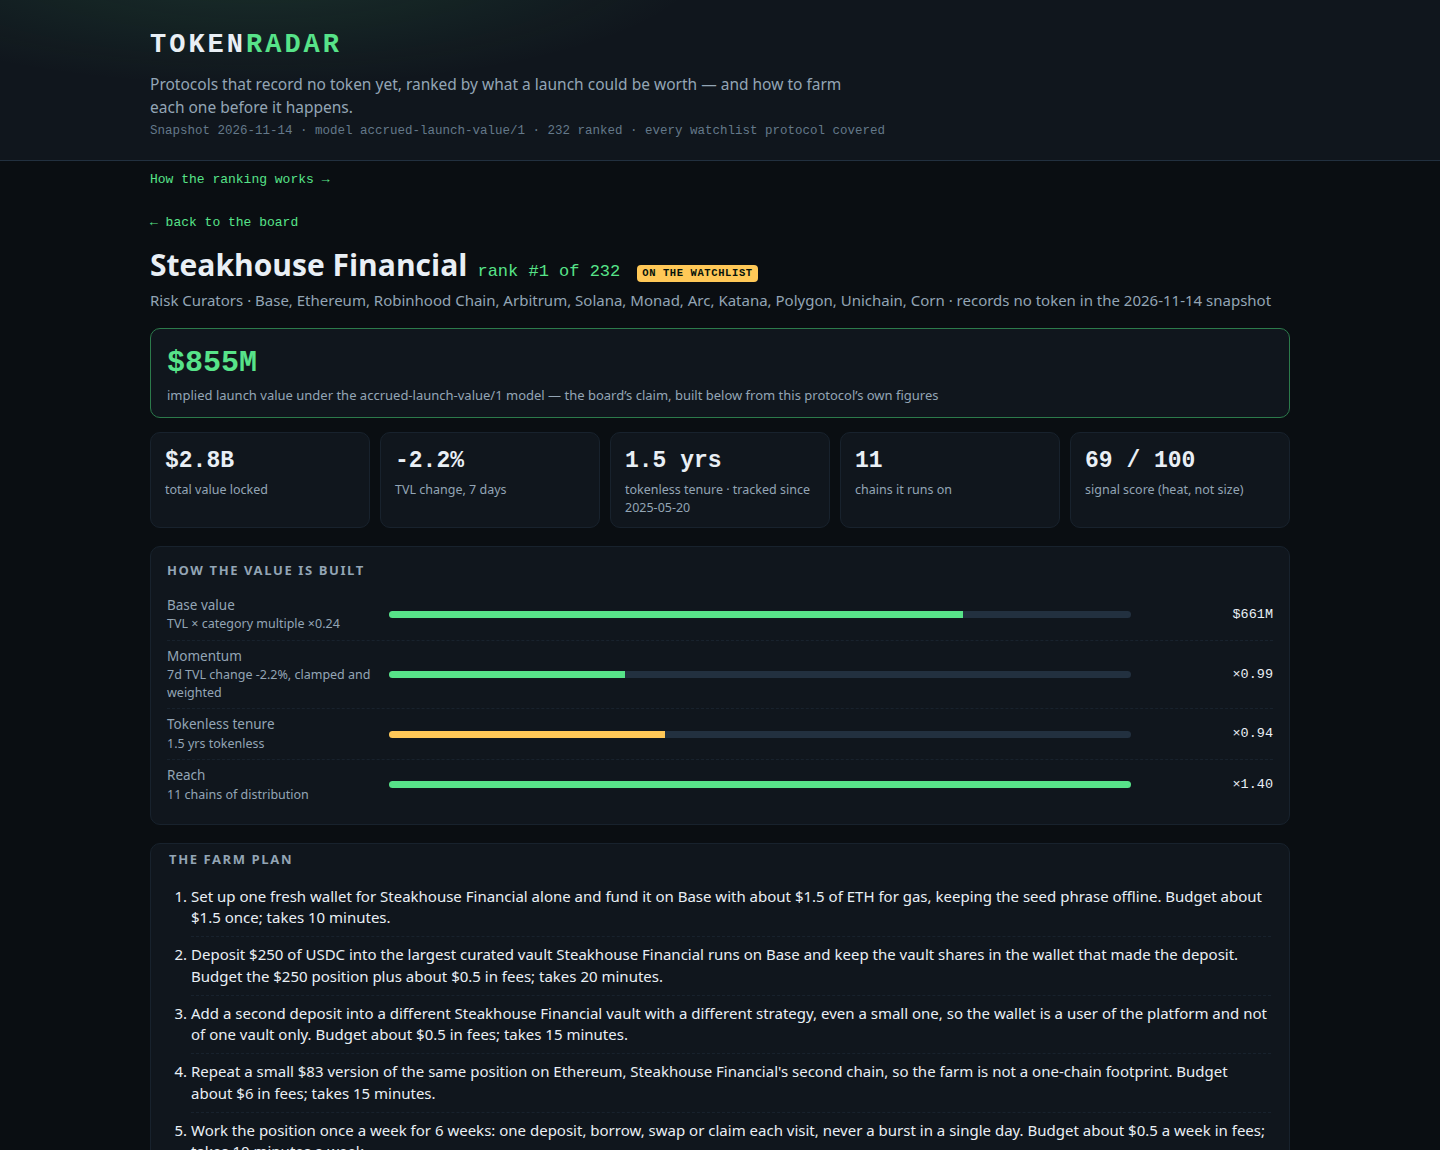
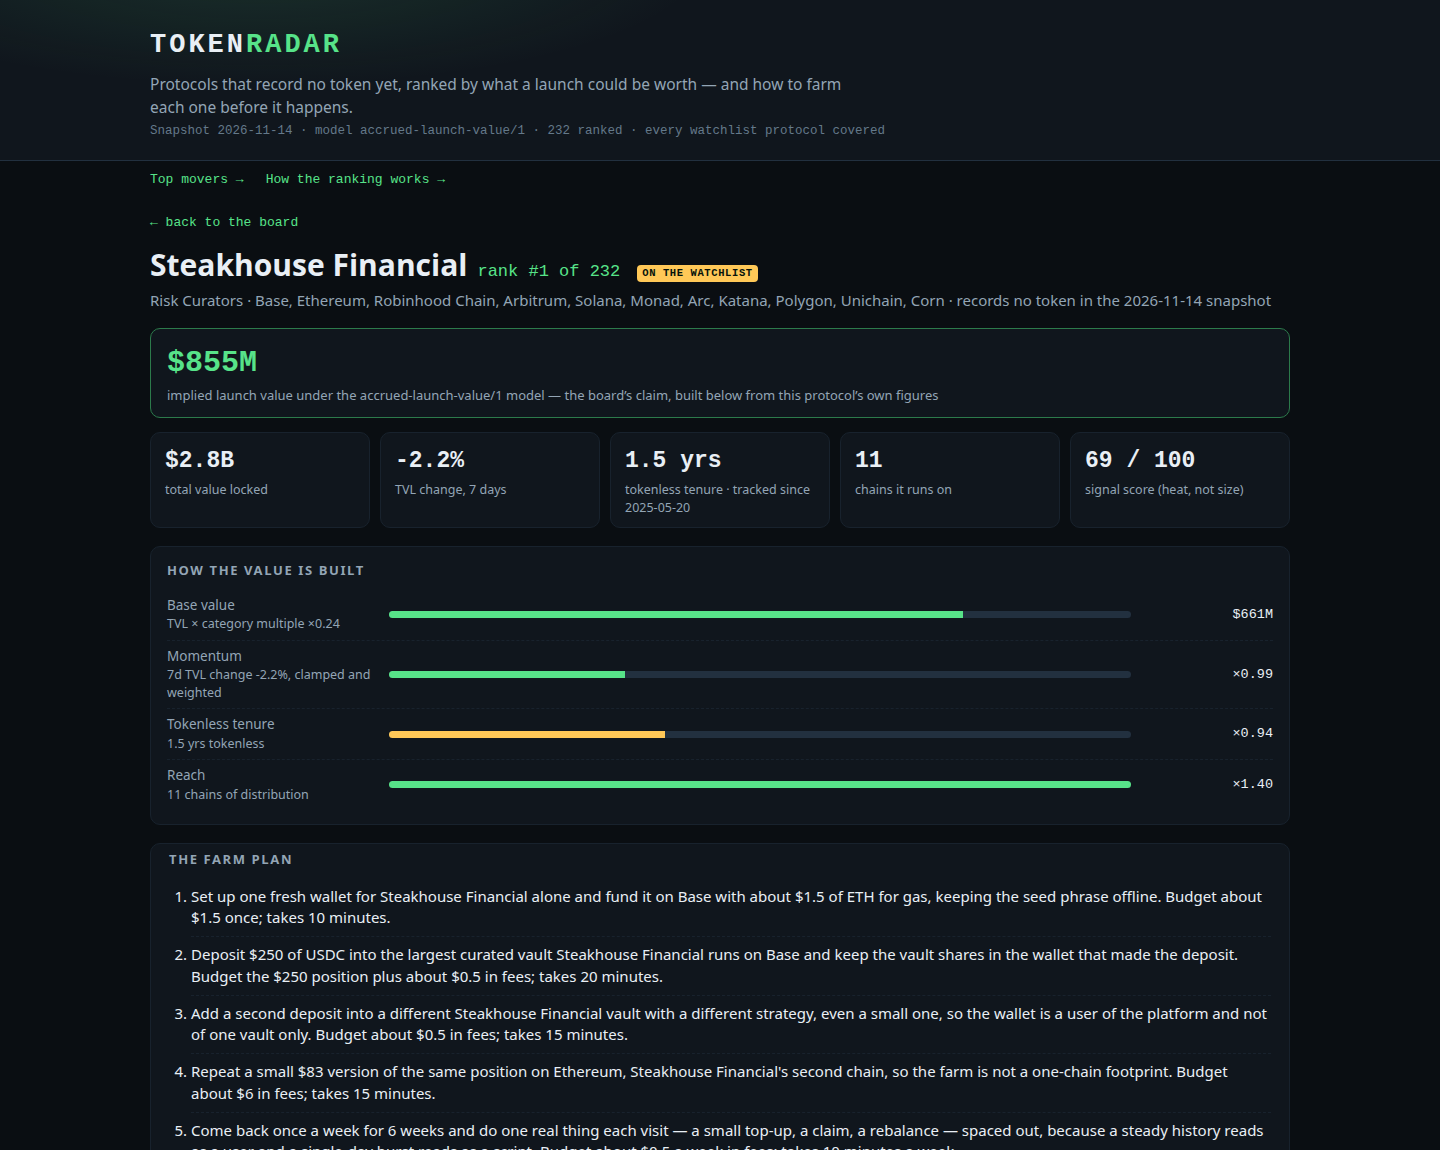
Round 2: movers view with per-chain stats, varied farm plans, fourth screenshot
- Dashboard: new #/movers view — the board's 15 biggest 7d TVL gainers plus a
  per-chain summary table (protocols, board TVL, combined implied value,
  hottest protocol per chain); top nav now links movers and methodology.
- Farm plans: wording varies per protocol by a stable slug hash (3 wallet
  openings, 2 deepen actions per playbook, 2 weekly and 2 log forms), and
  watchlist or >=$250M TVL protocols carry an extra mid-campaign review
  step (8 steps; 44 of 232 rows). All steps keep cost and time lines.
- Screenshots: all four re-rendered from the new build; 4-movers.png added
  (1440x1440). Board unchanged: 232 rows, watchlist 40/40, same values.

Changed region(s): [[0.125, 0.9739, 0.875, 1.0], [0.125, 0.1522, 0.2812, 0.1826]]

diff --git a/lib/model.ts b/lib/model.ts
@@ -380,6 +380,8 @@ interface Playbook {
   open: (name: string, capital: number, chain: string) => string;
   /** A second, different qualifying action on the same protocol. */
   deepen: (name: string, chain: string) => string;
+  /** An alternative second action; each protocol's plan takes one of the two, by its slug. */
+  deepen2: (name: string, chain: string) => string;
   /** How the position is unwound when the farm ends. */
   unwind: (name: string) => string;
 }
@@ -390,6 +392,7 @@ const PLAYBOOKS: { match: (category: string) => boolean; book: Playbook }[] = [
     book: {
       open: (n, k, ch) => `Supply $${k} of USDC to ${n} on ${ch} so the wallet shows a live lending position, then borrow about a third of it back and re-supply the loan to build genuine two-sided activity`,
       deepen: (n, ch) => `Open a second, smaller supply position in a different ${n} market on ${ch} (a ETH or wrapped-BTC market, not only stablecoins), because multi-market use is what points programs usually count`,
+      deepen2: (n, ch) => `Roll the borrow once on ${ch}: repay it in full, then borrow again against the same supply a week later, so the wallet shows a complete lending cycle rather than one static position`,
       unwind: (n) => `Repay any open borrow first, then withdraw the supplied balance in one transaction; ${n} has no lock-up on supplied funds, so the exit settles the same day`,
     },
   },
@@ -398,6 +401,7 @@ const PLAYBOOKS: { match: (category: string) => boolean; book: Playbook }[] = [
     book: {
       open: (n, k, ch) => `Provide $${k} split evenly between USDC and the chain's main asset in ${n}'s busiest pool on ${ch}, and keep the LP position open rather than hopping between pools`,
       deepen: (n, ch) => `Route your ordinary swaps on ${ch} through ${n} itself instead of a rival aggregator, a few trades a week, so the wallet also carries trader history and not only liquidity`,
+      deepen2: (n, ch) => `Claim whatever fees or points the pool credits to the position and put them straight back into the same ${n} pool on ${ch}, so the position compounds instead of sitting idle`,
       unwind: (n) => `Remove the liquidity in one visit and swap the proceeds back to USDC; watch the pool's exit fee on ${n} before you confirm, and leave nothing behind in old pool versions`,
     },
   },
@@ -406,6 +410,7 @@ const PLAYBOOKS: { match: (category: string) => boolean; book: Playbook }[] = [
     book: {
       open: (n, k, ch) => `Stake $${k} of the chain's staking asset through ${n} on ${ch} and hold the liquid receipt token in the same wallet, unstaked and visible`,
       deepen: (n, ch) => `Put a small part of the receipt token to work in one ${n} partner market on ${ch} (a lending market or a liquidity pool), which is the behaviour restaking ecosystems reward most`,
+      deepen2: (n, ch) => `Place a second, smaller stake with a different validator or vault inside ${n} on ${ch}, since a wallet staked in exactly one place is the first shape a sybil screen looks for`,
       unwind: (n) => `Start the unstake early: staking exits on ${n} queue behind an unbonding window, so request the withdrawal at least two weeks before you need the funds back`,
     },
   },
@@ -414,6 +419,7 @@ const PLAYBOOKS: { match: (category: string) => boolean; book: Playbook }[] = [
     book: {
       open: (n, k, ch) => `Bridge $${k} of USDC from Ethereum to ${ch} through ${n}, then use the bridged funds inside one app on the far side instead of bridging straight back`,
       deepen: (n, ch) => `Make one return bridge of a smaller amount a fortnight later, so the wallet's history reads as a user moving funds with purpose, not a single farmed crossing`,
+      deepen2: (n, ch) => `Bridge a second kind of asset across ${n} once — the chain's gas token rather than USDC — so the wallet's crossings are not all one asset moving in one direction`,
       unwind: (n) => `Bridge the remaining balance back to Ethereum through ${n} and keep the transaction hashes; bridged positions carry no lock-up once the crossing settles`,
     },
   },
@@ -422,6 +428,7 @@ const PLAYBOOKS: { match: (category: string) => boolean; book: Playbook }[] = [
     book: {
       open: (n, k, ch) => `Deposit $${k} of USDC as margin on ${n} and open one small, hedged position (long the asset you hold spot elsewhere), sized so a bad week cannot liquidate it`,
       deepen: (n, ch) => `Trade a second instrument on ${n} (a different expiry or market) once a week in small size; volume spread across markets is the metric derivatives venues publish`,
+      deepen2: (n, ch) => `Post one small limit order on ${n} and let it rest unfilled for a day before cancelling; resting orders are the liquidity derivatives venues say they reward`,
       unwind: (n) => `Close every open position first, wait for funding to settle, then withdraw the margin; never leave a position open on ${n} while you withdraw`,
     },
   },
@@ -430,6 +437,7 @@ const PLAYBOOKS: { match: (category: string) => boolean; book: Playbook }[] = [
     book: {
       open: (n, k, ch) => `Deposit $${k} of USDC into the largest curated vault ${n} runs on ${ch} and keep the vault shares in the wallet that made the deposit`,
       deepen: (n, ch) => `Add a second deposit into a different ${n} vault with a different strategy, even a small one, so the wallet is a user of the platform and not of one vault only`,
+      deepen2: (n, ch) => `When ${n} opens a new vault on ${ch}, move a small slice of the first deposit into it in its first week; early depositors in a fresh vault are the cohort a curator can identify`,
       unwind: (n) => `Redeem the vault shares from ${n} in one visit; most vaults settle at once, but check the vault's own withdrawal window before you plan around the funds`,
     },
   },
@@ -438,6 +446,7 @@ const PLAYBOOKS: { match: (category: string) => boolean; book: Playbook }[] = [
     book: {
       open: (n, k, ch) => `Mint or buy $${k} of ${n}'s yield-bearing asset on ${ch} through its own app and hold it; for asset issuers the holder count and holding time are the whole game`,
       deepen: (n, ch) => `Use the minted asset once as collateral or liquidity in a partner market ${n} lists, then return it to the plain holding wallet for the rest of the campaign`,
+      deepen2: (n, ch) => `If ${n} runs a holder vote or forum on ${ch}, take part once from the holding wallet; for an issuer, a holder who shows up is worth more than a balance that never moves`,
       unwind: (n) => `Redeem the asset through ${n}'s own redemption path rather than selling into a thin pool; redemptions can settle over days, so start before you need the money`,
     },
   },
@@ -446,6 +455,7 @@ const PLAYBOOKS: { match: (category: string) => boolean; book: Playbook }[] = [
     book: {
       open: (n, k, ch) => `Fund ${n} with $${k} of USDC on ${ch} and take positions in two or three liquid markets you can actually follow, sized small enough to hold to settlement`,
       deepen: (n, ch) => `Add a limit order that rests in one market's book for a day or more; resting liquidity is scarcer than taker volume and venues notice it`,
+      deepen2: (n, ch) => `Later in the week take the other side of one of your own markets in a second, smaller position, so the wallet trades both ways like a participant and not a tip sheet`,
       unwind: (n) => `Let open positions settle rather than selling out early, then withdraw the balance; settled markets pay in full, early exits pay the spread`,
     },
   },
@@ -454,6 +464,7 @@ const PLAYBOOKS: { match: (category: string) => boolean; book: Playbook }[] = [
 const FALLBACK_BOOK: Playbook = {
   open: (n, k, ch) => `Deposit $${k} of USDC into ${n} on ${ch} through its own app and keep the position open; a live, held position is the activity a launch snapshot can see`,
   deepen: (n, ch) => `Use one more of ${n}'s own features on ${ch} (a second market, a vote, or its points page if it runs one), so the wallet reads as a user and not a single deposit`,
+  deepen2: (n, ch) => `Reach ${n} through a second doorway once — its partner front-end or mobile app on ${ch} if it has one — so the wallet's history is not a single repeated path`,
   unwind: (n) => `Withdraw through ${n}'s own exit path and keep the hashes; check for a withdrawal queue or notice period before you count on the funds`,
 };
 
@@ -464,14 +475,24 @@ function playbookFor(category: string | null): Playbook {
   return FALLBACK_BOOK;
 }
 
+/** A small stable hash of a slug, so plan wording varies by protocol and never by run. */
+function slugHash(slug: string): number {
+  let h = 0;
+  for (let i = 0; i < slug.length; i++) h = (h * 31 + slug.charCodeAt(i)) >>> 0;
+  return h;
+}
+
 /**
- * One protocol's farm plan: seven steps, each a single string carrying the action, what it costs
- * and how long it takes. Every figure in it comes from the protocol's own record: its category
- * picks the playbook, its first chain picks the funding route, its TVL band picks the capital,
- * its tokenless age picks the campaign's length, and its chain count decides whether the plan
- * works a second chain.
+ * One protocol's farm plan: seven steps, or eight for a watchlist protocol or a large one, each a
+ * single string carrying the action, what it costs and how long it takes. Every figure in it comes
+ * from the protocol's own record: its category picks the playbook, its first chain picks the
+ * funding route, its TVL band picks the capital, its tokenless age picks the campaign's length,
+ * and its chain count decides whether the plan works a second chain. The wording is varied on
+ * purpose — three openings for the wallet step, two second actions per playbook, two forms each
+ * for the weekly work and the record keeping — chosen by a stable hash of the protocol's slug, so
+ * no two plans read alike yet the same snapshot always writes the same plan.
  */
-export function farmPlanFor(p: ProtocolRecord, ageDays: number | null): string[] {
+export function farmPlanFor(p: ProtocolRecord, ageDays: number | null, onWatchlist = false): string[] {
   const chain = homeChain(p);
   const gas = GAS_ASSET[chain] ?? 'the chain gas token';
   const fee = feeFor(chain);
@@ -479,17 +500,40 @@ export function farmPlanFor(p: ProtocolRecord, ageDays: number | null): string[]
   const weeks = campaignWeeks(ageDays);
   const book = playbookFor(p.category);
   const secondChain = p.chains.length > 1 ? p.chains[1]! : null;
+  const v = slugHash(p.slug);
+  const gasBudget = fee * 3;
+  const setups = [
+    `Set up one fresh wallet for ${p.name} alone and fund it on ${chain} with about $${gasBudget} of ${gas} for gas, keeping the seed phrase offline. Budget about $${gasBudget} once; takes 10 minutes.`,
+    `Create a dedicated wallet for ${p.name}, never your main one, back its seed phrase up on paper, and send about $${gasBudget} of ${gas} to it on ${chain} so every later step can pay its own gas. Budget about $${gasBudget} once; takes 10 minutes.`,
+    `Start from a clean wallet used only for ${p.name}: generate it in an app you trust, store the recovery phrase offline, and load it with roughly $${gasBudget} of ${gas} on ${chain} for fees. Budget about $${gasBudget} once; takes 10 minutes.`,
+  ];
+  const deepen = v % 2 === 0 ? book.deepen : book.deepen2;
+  const weeklyForms = [
+    `Work the position once a week for ${weeks} weeks: one deposit, borrow, swap or claim each visit, never a burst in a single day. Budget about $${fee} a week in fees; takes 10 minutes a week.`,
+    `Come back once a week for ${weeks} weeks and do one real thing each visit — a small top-up, a claim, a rebalance — spaced out, because a steady history reads as a user and a single-day burst reads as a script. Budget about $${fee} a week in fees; takes 10 minutes a week.`,
+  ];
+  const logForms = [
+    `Keep a farm log (wallet, dates, amounts, transaction hashes) and check ${p.name}'s own points or rewards page once a month from the link its app publishes. Budget nothing; never pay anyone to claim for you. Takes 5 minutes a month.`,
+    `Write down each visit as it happens (date, action, amount, hash) and re-check ${p.name}'s official channels once a month for a points program or a launch announcement. Budget nothing; never pay anyone to claim for you. Takes 5 minutes a month.`,
+  ];
   const steps: string[] = [
-    `Set up one fresh wallet for ${p.name} alone and fund it on ${chain} with about $${fee * 3} of ${gas} for gas, keeping the seed phrase offline. Budget about $${fee * 3} once; takes 10 minutes.`,
+    setups[v % 3]!,
     `${book.open(p.name, capital, chain)}. Budget the $${capital} position plus about $${fee} in fees; takes 20 minutes.`,
-    `${book.deepen(p.name, chain)}. Budget about $${fee} in fees; takes 15 minutes.`,
+    `${deepen(p.name, chain)}. Budget about $${fee} in fees; takes 15 minutes.`,
     secondChain !== null
       ? `Repeat a small $${Math.max(25, Math.floor(capital / 3))} version of the same position on ${secondChain}, ${p.name}'s second chain, so the farm is not a one-chain footprint. Budget about $${feeFor(secondChain)} in fees; takes 15 minutes.`
       : `Deepen the ${chain} position once: add about $${Math.floor(capital / 2)} more after the first week, which reads as conviction rather than a one-off test deposit. Budget about $${fee} in fees; takes 10 minutes.`,
-    `Work the position once a week for ${weeks} weeks: one deposit, borrow, swap or claim each visit, never a burst in a single day. Budget about $${fee} a week in fees; takes 10 minutes a week.`,
-    `Keep a farm log (wallet, dates, amounts, transaction hashes) and check ${p.name}'s own points or rewards page once a month from the link its app publishes. Budget nothing; never pay anyone to claim for you. Takes 5 minutes a month.`,
-    `${book.unwind(p.name)}. If a launch is announced, claim only from the link on ${p.name}'s official page and expect the claim itself to cost about $${fee} in fees. Takes 15 minutes.`,
+    weeklyForms[Math.floor(v / 2) % 2]!,
+    logForms[Math.floor(v / 6) % 2]!,
   ];
+  if (onWatchlist || p.tvl_usd >= 250_000_000) {
+    steps.push(
+      `Halfway through the ${weeks} weeks, review the position against ${p.name}'s own numbers: if its TVL has fallen by a third or more since the campaign began, stop adding funds and let the weekly visits wind down. Budget nothing; takes 10 minutes once.`,
+    );
+  }
+  steps.push(
+    `${book.unwind(p.name)}. If a launch is announced, claim only from the link on ${p.name}'s official page and expect the claim itself to cost about $${fee} in fees. Takes 15 minutes.`,
+  );
   return steps.map(fitStep);
 }
 
@@ -610,7 +654,7 @@ export function buildRadar(snapshot: SnapshotData): { board: BoardRow[]; data: D
     implied_value_usd: s.implied,
     signal_score: s.signal,
     breakdown: s.breakdown,
-    farm_steps: farmPlanFor(s.p, s.breakdown.age_days),
+    farm_steps: farmPlanFor(s.p, s.breakdown.age_days, watch.has(s.p.slug)),
   }));
 
   const live: LiveRow[] = snapshot.protocols

diff --git a/dashboard/app.js b/dashboard/app.js
@@ -352,6 +352,103 @@
       : 'Showing ' + shown + ' of ' + DATA.rows.length + ' ranked protocols. Click a row for its value breakdown and farm plan.';
   }
 
+  /* Movers and chains --------------------------------------------------------- */
+
+  function renderMovers() {
+    app.textContent = '';
+    app.appendChild(link('#/board', 'back-link', '← back to the board'));
+    app.appendChild(el('h1', 'view-title', 'Top movers — where the TVL is rushing in'));
+    app.appendChild(el('p', 'detail-sub',
+      'The ranked board’s biggest seven-day TVL gains, as of ' + DATA.as_of + '. A launch is worth more when users are ' +
+      'arriving before it happens, so the radar watches the inflow as closely as the size.'));
+
+    var gainers = DATA.rows
+      .filter(function (r) { return r.change_7d !== null && r.change_7d !== undefined; })
+      .slice()
+      .sort(function (a, b) { return b.change_7d - a.change_7d || a.rank - b.rank; })
+      .slice(0, 15);
+    var table = el('table', 'board-table');
+    var head = el('thead');
+    var hr = el('tr');
+    [['#', ''], ['Protocol', ''], ['Chains', 'chains-col'], ['TVL', 'num'], ['7d change', 'num'],
+     ['Implied value', 'num'], ['Signal', '']].forEach(function (pair) {
+      hr.appendChild(el('th', pair[1], pair[0]));
+    });
+    head.appendChild(hr);
+    table.appendChild(head);
+    var body = el('tbody');
+    gainers.forEach(function (r) {
+      var tr = el('tr');
+      tr.addEventListener('click', function () {
+        window.location.hash = '#/protocol/' + encodeURIComponent(r.slug);
+      });
+      tr.appendChild(el('td', 'rank', String(r.rank)));
+      var nameCell = el('td');
+      var nameLine = el('div');
+      nameLine.appendChild(el('span', 'proto-name', r.name));
+      if (r.on_watchlist) nameLine.appendChild(el('span', 'tag', 'WATCHLIST'));
+      nameCell.appendChild(nameLine);
+      nameCell.appendChild(el('div', 'proto-cat', r.category || 'Uncategorised'));
+      tr.appendChild(nameCell);
+      tr.appendChild(el('td', 'chains chains-col', chainLabel(r.chains)));
+      tr.appendChild(el('td', 'num', formatUsd(r.tvl_usd)));
+      tr.appendChild(el('td', 'num mover-change ' + pctClass(r.change_7d), formatPct(r.change_7d)));
+      tr.appendChild(el('td', 'implied', formatUsd(r.implied_value_usd)));
+      tr.appendChild(el('td', 'num', String(r.signal_score)));
+      body.appendChild(tr);
+    });
+    table.appendChild(body);
+    app.appendChild(table);
+    app.appendChild(el('p', 'result-count',
+      'The 15 fastest growers of the ' + DATA.rows.length + ' ranked protocols. Rows whose seven-day change is ' +
+      'unreported are counted as flat by the model and cannot appear here. Click a row for its breakdown and farm plan.'));
+
+    app.appendChild(el('h2', 'section-title chain-title', 'Chains at a glance'));
+    app.appendChild(el('p', 'detail-sub',
+      'Every chain the ranked board touches, by the protocols that run on it: how much of the board sits there, ' +
+      'what it is worth together, and the hottest protocol on it this week. A protocol on several chains counts once per chain.'));
+    var byChain = {};
+    DATA.rows.forEach(function (r) {
+      r.chains.forEach(function (c) {
+        var s = byChain[c] || (byChain[c] = { chain: c, count: 0, tvl: 0, implied: 0, best: null });
+        s.count += 1;
+        s.tvl += r.tvl_usd;
+        s.implied += r.implied_value_usd;
+        if (r.change_7d !== null && r.change_7d !== undefined && (!s.best || r.change_7d > s.best.change_7d)) s.best = r;
+      });
+    });
+    var chains = Object.keys(byChain).map(function (k) { return byChain[k]; })
+      .sort(function (a, b) { return b.implied - a.implied || b.count - a.count || (a.chain < b.chain ? -1 : 1); })
+      .slice(0, 12);
+    var ctable = el('table', 'board-table');
+    var chead = el('thead');
+    var chr = el('tr');
+    ['Chain', 'Protocols', 'Board TVL', 'Implied value together', 'Hottest this week (7d)'].forEach(function (label, i) {
+      chr.appendChild(el('th', i >= 1 && i <= 3 ? 'num' : '', label));
+    });
+    chead.appendChild(chr);
+    ctable.appendChild(chead);
+    var cbody = el('tbody');
+    chains.forEach(function (s) {
+      var tr = el('tr');
+      tr.appendChild(el('td', 'proto-name', s.chain));
+      tr.appendChild(el('td', 'num', String(s.count)));
+      tr.appendChild(el('td', 'num', formatUsd(s.tvl)));
+      tr.appendChild(el('td', 'implied', formatUsd(s.implied)));
+      var hot = el('td');
+      if (s.best) {
+        hot.appendChild(link('#/protocol/' + encodeURIComponent(s.best.slug), null, s.best.name));
+        hot.appendChild(el('span', 'num ' + pctClass(s.best.change_7d), '  ' + formatPct(s.best.change_7d)));
+      } else {
+        hot.textContent = '—';
+      }
+      tr.appendChild(hot);
+      cbody.appendChild(tr);
+    });
+    ctable.appendChild(cbody);
+    app.appendChild(ctable);
+  }
+
   /* One protocol ------------------------------------------------------------- */
 
   function meterRow(name, note, fraction, valueText, amber) {
@@ -458,7 +555,9 @@
       '<p>Each plan is generated from the protocol’s own record: its category picks the playbook (supply and borrow for lending, ' +
       'liquidity for a DEX, stake for staking, crossings for a bridge), its first chain picks the funding route and fees, its TVL ' +
       'band picks the position size, its tokenless age picks the campaign’s length, and its chain count decides whether the plan ' +
-      'works a second chain. Every step states what it costs and how long it takes.</p>';
+      'works a second chain. Every step states what it costs and how long it takes. The wording varies from protocol to protocol — ' +
+      'the opening, the second action and the weekly rhythm are picked per protocol — so the plans do not read as one template ' +
+      'filled in hundreds of times, and a watchlist protocol, or one above $250M of TVL, carries an extra mid-campaign review step.</p>';
     var title = el('h2', null, 'Category multiples');
     box.appendChild(title);
     var table = el('table');
@@ -499,6 +598,10 @@
       renderMethod();
       return;
     }
+    if (route.path === '/movers') {
+      renderMovers();
+      return;
+    }
     var state = {
       q: route.params.get('q') || '',
       chain: route.params.get('chain') || '',
@@ -514,12 +617,10 @@
     return;
   }
 
-  var methodLink = link('#/method', 'back-link', 'How the ranking works →');
-  methodLink.style.display = 'block';
-  methodLink.style.maxWidth = '1180px';
-  methodLink.style.margin = '0 auto';
-  methodLink.style.padding = '10px 20px 0';
-  document.body.insertBefore(methodLink, app);
+  var topnav = el('div', 'topnav');
+  topnav.appendChild(link('#/movers', 'back-link', 'Top movers →'));
+  topnav.appendChild(link('#/method', 'back-link', 'How the ranking works →'));
+  document.body.insertBefore(topnav, app);
 
   window.addEventListener('hashchange', renderApp);
   document.addEventListener('keydown', function (ev) {

diff --git a/dashboard/app.css b/dashboard/app.css
@@ -56,6 +56,10 @@ a:hover { text-decoration: underline; }
 /* Layout ---------------------------------------------------------------- */
 
 .app { max-width: 1180px; margin: 0 auto; padding: 20px; min-height: 55vh; }
+.topnav { max-width: 1180px; margin: 0 auto; padding: 10px 20px 0; display: flex; gap: 22px; }
+.view-title { font-size: 26px; margin: 8px 0 4px; }
+.chain-title { margin-top: 28px; }
+.mover-change { font-weight: 700; font-size: 15.5px; }
 .colophon { max-width: 1180px; margin: 0 auto; padding: 6px 20px 34px; color: var(--faint); font-size: 13px; }
 .colophon em { color: var(--muted); font-style: normal; }
 
